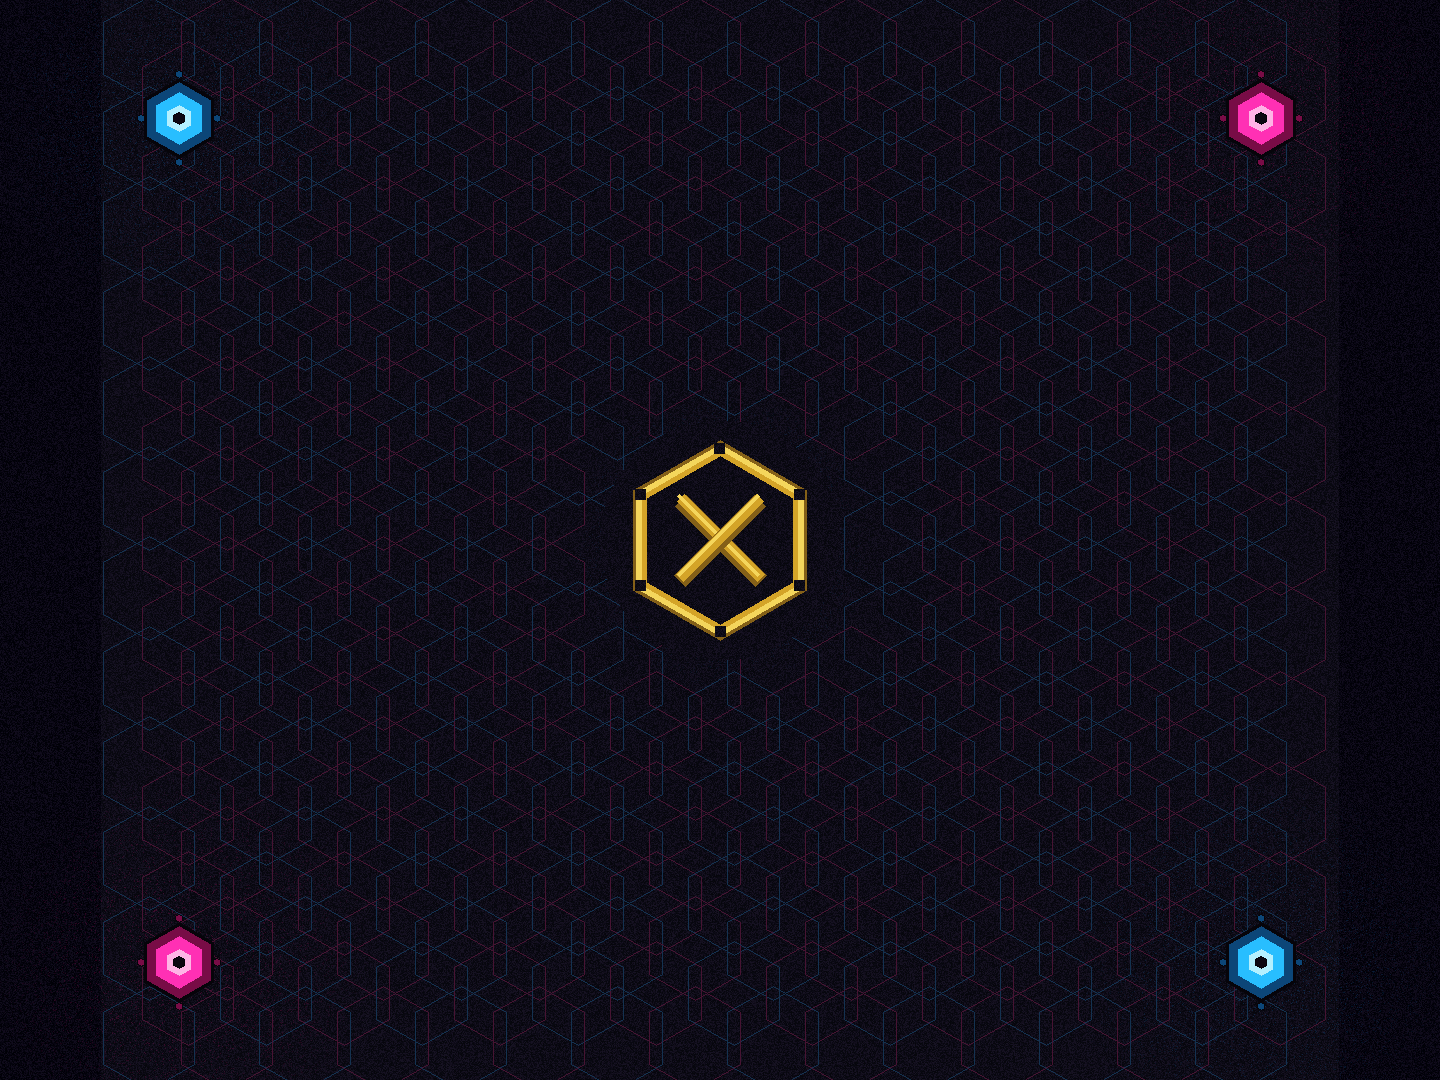
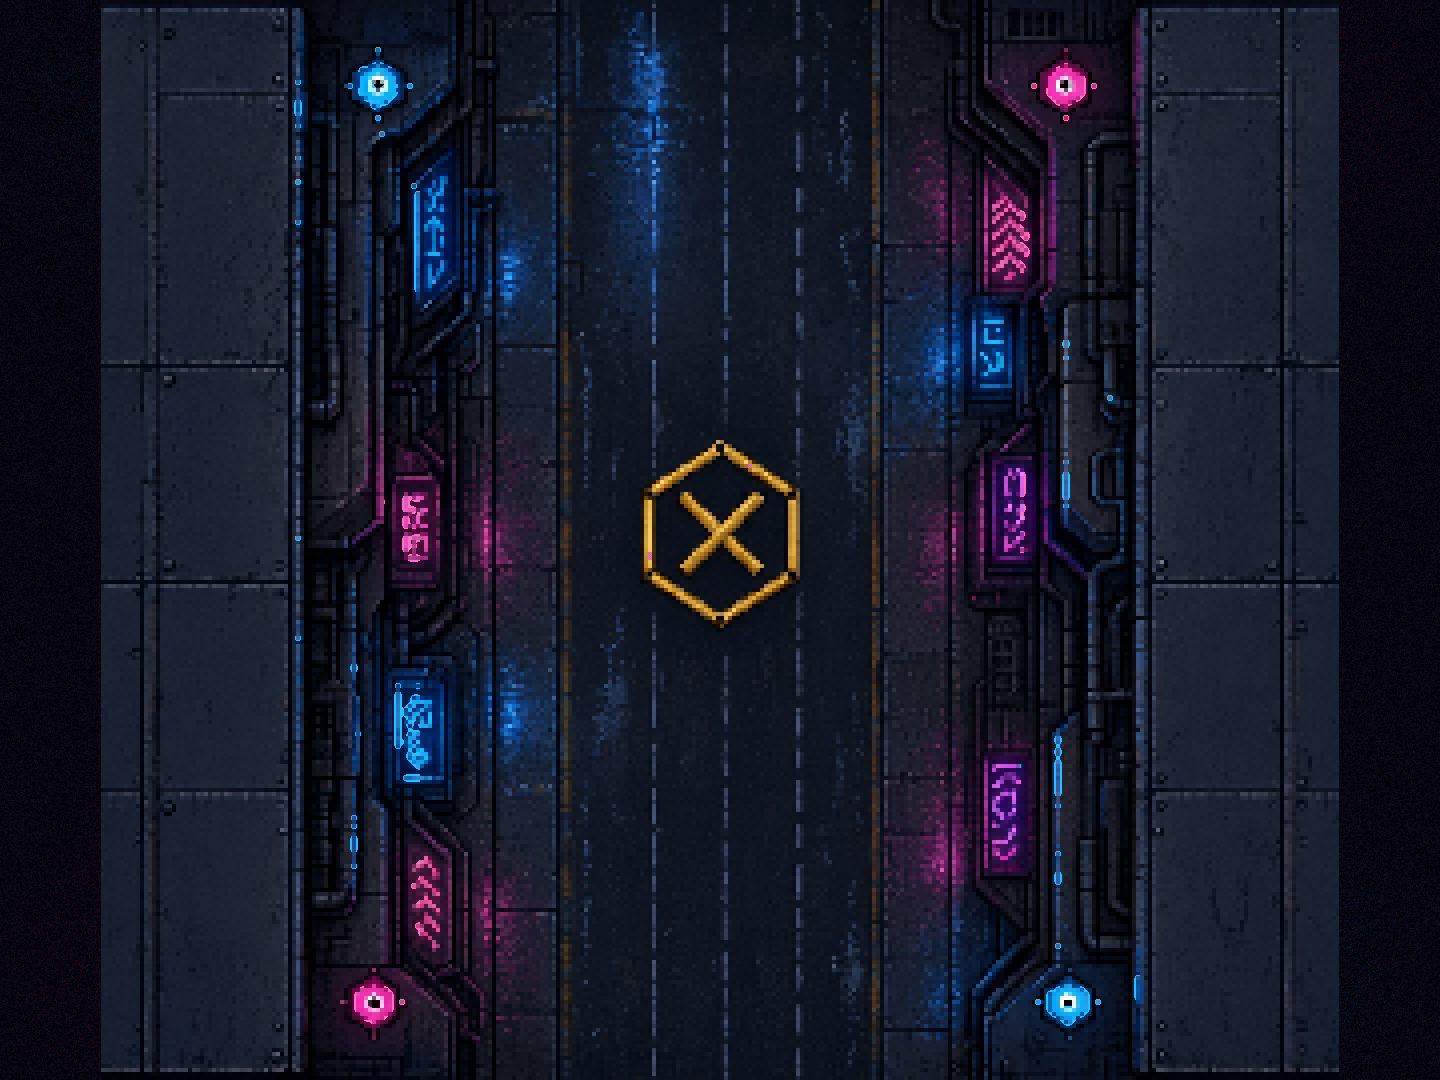
art

diff --git a/playbook.md b/playbook.md
@@ -368,12 +368,12 @@ Top-down 4:3 empty woodland clearing as a volley court, CLEAN even packed earth,
 
 **Rainy neon street** (Hex) — court, cabinet, chips only; do **not** restyle Hex fighter sprites
 
-Wet night tar, **neon blue** + **neon pink** only (no sodium brown). Faint hex tessellation in those two neons, empty gutters. Center: gold broken hex + X. Corner hex lamps: blue / pink / pink / blue. No rooftops, no Tron grid, no Rivet PCB. No letters or logos.
+Top-down **street canyon**: wet **empty** asphalt in the middle, dark empty **chip gutters** left and right (same dark lanes as the old Hex floor, 101px, no objects). Neon blue + neon pink only on the building faces (abstract hex / bars / chevrons, **no letters, no logos**). **No** vertical cyan/pink light beams or laser lanes down the street. Center: gold broken hex + X. Hex lamps on the inner roof corners: blue / pink / pink / blue. No cars, no people, no HUD, no Tron grid, no Rivet PCB.
 
-Cabinet (`hex/hex_ui_cabinet.png`): authored **360×270**, nearest **×4**, left half mirrored. Wet dark metal, **no louver posts**. Neon-blue hex lamp and neon-pink hex lamp per post, blue/pink hole bezel, blue/pink bumper. P2 well rims and bumper pink must **not** be `#FF00FF` or hole-bleed magenta (keep G **> 90** so `isCabinetHoleBleed` does not punch them). Same well / hole table. Magenta hole **1056800** px. Original IP.
+Cabinet (`hex/hex_ui_cabinet.png`): authored **360×270**, nearest **×4**, designed from scratch (not a recolor of the old hex CAD frame). Noir Blade Runner rain: wet dark steel posts, rain streaks, pipes, hex neon lamps, neon-blue LEFT / neon-pink RIGHT. Same well / hole table. P2 pink is `(255, 112, 200)` — G **> 90**. Magenta hole **1056800** px. No text. Original IP.
 
 ```
-Top-down 4:3 rainy neon street as a volley court, wet night tar, neon blue and neon pink hex tiles, gold broken hexagon with X, four corner hex lamps blue and pink, empty dark chip gutters, no people, no HUD, no text, no logos, pixel art, 1440x1080
+Top-down 4:3 rainy neon street canyon as a volley court, wet EMPTY dark asphalt (NO cars, NO vertical neon light beams, NO laser lanes), gold broken hexagon with X in the center, building faces with neon-blue and neon-pink abstract signs only (no text), empty dark chip gutters 101px left and right, hex lamps blue and pink, no people, no HUD, no logos, pixel art, 1440x1080
 ```
 
 **Cabinet** (`art/{name}/{name}_ui_cabinet.png`) — overlay on that fighter’s court when they are 2P
@@ -512,10 +512,10 @@ Ash (parking stall):
 
 P2: same drawing, crimson curb instead of teal.
 
-Hex (hex quartz):
+Hex (wet metal gate):
 
 ```
-1994 Neo Geo sprite, chunky pixels (author small, nearest scale), hard black outline. Standing 22×120: NEON BLUE hexagonal crystal pylon. Flattened 48×120: FULL SLOT neon-blue hex plate, inner hex detail, reads on the dark gutter. NO letters, NO logos, NO four corner bolts, NO brown, NO teal.
+1994 Neo Geo sprite, chunky pixels (author small, nearest scale). Wet WORN metal (rain pits, scratches), slightly lighter than Hex gutters. Hard dark ink rim (NOT a neon frame). Four NEON STUDS in the corners (blue P1 / pink P2), not thin neon outlines. Standing 22×120: that metal bar, four corner studs, a SINGLE vertical neon light down the CENTER only. Flattened 48×120: FULL SLOT worn-metal plate, four corner neon studs, no center stripe, no gold hex, no yellow X. NO crystal, NO letters, NO logos, NO four gold bolts, NO teal.
 ```
 
 P2: same drawing, neon pink instead of neon blue.
